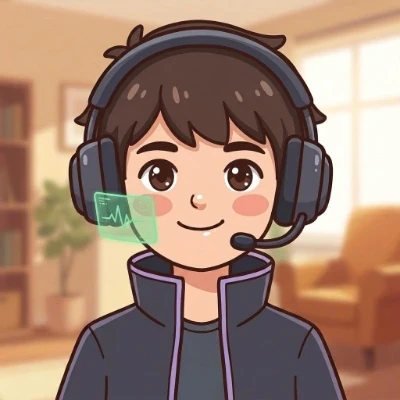
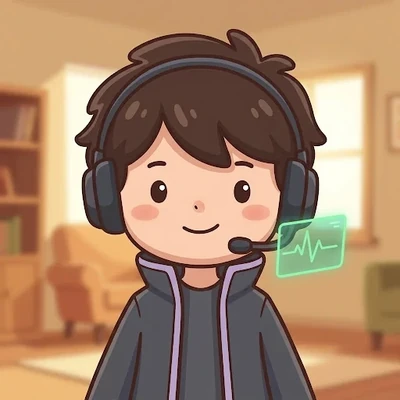
Personagens redesenhados no estilo C (traço original refinado)
Troca o redesenho mais realista pelo traço original do jogo, mais limpo:
agentes 0 e 1, promoções 0 a 5 e a menina da Escola com as cenas dela.
Os agentes da equipe continuam como estavam.

Claude-Session: https://claude.ai/code/session_01Bsh6pjGxG4aLmpNmfdfPHX

diff --git a/sw.js b/sw.js
@@ -2,7 +2,7 @@
    rode "node ferramentas/gerar-sw.js" depois de mudar o ?v= do index.html. */
 'use strict';
 
-const VERSAO = '202611260330';
+const VERSAO = '202611260430';
 const CACHE = 'algoritimando-' + VERSAO;
 const ARQUIVOS = [
   "./",
@@ -18,7 +18,7 @@ const ARQUIVOS = [
   "audio/efeitos/selo.mp3",
   "audio/efeitos/vitoria.mp3",
   "audio/musica-tema.mp3",
-  "fontes/fontes.css?v=202611260330",
+  "fontes/fontes.css?v=202611260430",
   "fontes/fredoka.woff2",
   "fontes/nunito.woff2",
   "img/agente-afro-menina.webp",
@@ -44,6 +44,7 @@ const ARQUIVOS = [
   "img/av9.webp",
   "img/cliente0.webp",
   "img/cliente1.webp",
+  "img/cliente2.webp",
   "img/cliente3.webp",
   "img/cliente4.webp",
   "img/cliente5.webp",
@@ -63,6 +64,7 @@ const ARQUIVOS = [
   "img/icones/icone-maskable-512.png",
   "img/level1.webp",
   "img/level2.webp",
+  "img/level3.webp",
   "img/level4.webp",
   "img/level5.webp",
   "img/level6.webp",
@@ -230,11 +232,18 @@ const ARQUIVOS = [
   "img/pecas/sanduiche-queijo.webp",
   "img/pic1.webp",
   "img/pic2.webp",
+  "img/pic3.webp",
   "img/pic4.webp",
   "img/pic5.webp",
   "img/pic6.webp",
   "img/pic7.webp",
   "img/pic8.webp",
+  "img/promo0.webp",
+  "img/promo1.webp",
+  "img/promo2.webp",
+  "img/promo3.webp",
+  "img/promo4.webp",
+  "img/promo5.webp",
   "img/promo6.webp",
   "img/promo7.webp",
   "img/promo8.webp",
@@ -261,35 +270,38 @@ const ARQUIVOS = [
   "img/ui/dica.webp",
   "img/ui/estrela.webp",
   "img/who1.webp",
+  "img/who2.webp",
+  "img/who3.webp",
   "img/who4.webp",
   "img/who5.webp",
   "img/who6.webp",
   "img/win1.webp",
   "img/win2.webp",
+  "img/win3.webp",
   "img/win4.webp",
   "img/win5.webp",
   "img/win6.webp",
   "img/win7.webp",
   "img/win8.webp",
   "index.html",
-  "js/album.js?v=202611260330",
-  "js/app.js?v=202611260330",
-  "js/arrasto.js?v=202611260330",
-  "js/comum.js?v=202611260330",
-  "js/conclusao.js?v=202611260330",
-  "js/em-progresso.js?v=202611260330",
-  "js/final.js?v=202611260330",
-  "js/jogo.js?v=202611260330",
-  "js/montagem.js?v=202611260330",
-  "js/motor.js?v=202611260330",
-  "js/perfil.js?v=202611260330",
-  "js/progresso.js?v=202611260330",
-  "js/pwa.js?v=202611260330",
-  "js/situacoes.js?v=202611260330",
-  "js/som.js?v=202611260330",
-  "js/versao.js?v=202611260330",
+  "js/album.js?v=202611260430",
+  "js/app.js?v=202611260430",
+  "js/arrasto.js?v=202611260430",
+  "js/comum.js?v=202611260430",
+  "js/conclusao.js?v=202611260430",
+  "js/em-progresso.js?v=202611260430",
+  "js/final.js?v=202611260430",
+  "js/jogo.js?v=202611260430",
+  "js/montagem.js?v=202611260430",
+  "js/motor.js?v=202611260430",
+  "js/perfil.js?v=202611260430",
+  "js/progresso.js?v=202611260430",
+  "js/pwa.js?v=202611260430",
+  "js/situacoes.js?v=202611260430",
+  "js/som.js?v=202611260430",
+  "js/versao.js?v=202611260430",
   "manifest.webmanifest",
-  "style.css?v=202611260330"
+  "style.css?v=202611260430"
 ];
 
 // instala: baixa tudo de novo (sem usar o cache do navegador)

diff --git a/index.html b/index.html
@@ -18,8 +18,8 @@
     <meta name="apple-mobile-web-app-status-bar-style" content="black-translucent" />
     <meta name="apple-mobile-web-app-title" content="Algoritimando" />
     <!-- fontes guardadas no projeto: o jogo funciona sem internet -->
-    <link rel="stylesheet" href="fontes/fontes.css?v=202611260330" />
-    <link rel="stylesheet" href="style.css?v=202611260330" />
+    <link rel="stylesheet" href="fontes/fontes.css?v=202611260430" />
+    <link rel="stylesheet" href="style.css?v=202611260430" />
   </head>
   <body>
     <div id="stage">
@@ -916,23 +916,23 @@
          das cartas numa região, explicações de erro em outra -->
     <div class="sr leitor-avisos" aria-live="polite"></div>
     <div class="sr leitor-explicacao" aria-live="polite"></div>
-    <script src="js/versao.js?v=202611260330"></script>
-    <script src="js/motor.js?v=202611260330"></script>
-    <script src="js/comum.js?v=202611260330"></script>
-    <script src="js/situacoes.js?v=202611260330"></script>
-    <script src="js/em-progresso.js?v=202611260330"></script>
-    <script src="js/som.js?v=202611260330"></script>
-    <script src="js/progresso.js?v=202611260330"></script>
-    <script src="js/perfil.js?v=202611260330"></script>
-    <script src="js/arrasto.js?v=202611260330"></script>
-    <script src="js/conclusao.js?v=202611260330"></script>
-    <script src="js/montagem.js?v=202611260330"></script>
-    <script src="js/jogo.js?v=202611260330"></script>
+    <script src="js/versao.js?v=202611260430"></script>
+    <script src="js/motor.js?v=202611260430"></script>
+    <script src="js/comum.js?v=202611260430"></script>
+    <script src="js/situacoes.js?v=202611260430"></script>
+    <script src="js/em-progresso.js?v=202611260430"></script>
+    <script src="js/som.js?v=202611260430"></script>
+    <script src="js/progresso.js?v=202611260430"></script>
+    <script src="js/perfil.js?v=202611260430"></script>
+    <script src="js/arrasto.js?v=202611260430"></script>
+    <script src="js/conclusao.js?v=202611260430"></script>
+    <script src="js/montagem.js?v=202611260430"></script>
+    <script src="js/jogo.js?v=202611260430"></script>
     <!-- a cópia do certificado que vai para a impressora (final.js) -->
     <div id="impressao" aria-hidden="true"></div>
-    <script src="js/album.js?v=202611260330"></script>
-    <script src="js/final.js?v=202611260330"></script>
-    <script src="js/app.js?v=202611260330"></script>
-    <script src="js/pwa.js?v=202611260330"></script>
+    <script src="js/album.js?v=202611260430"></script>
+    <script src="js/final.js?v=202611260430"></script>
+    <script src="js/app.js?v=202611260430"></script>
+    <script src="js/pwa.js?v=202611260430"></script>
   </body>
 </html>

diff --git a/js/final.js b/js/final.js
@@ -36,7 +36,7 @@
   const proximo = $('#bFimNext');
 
   // ?v= faz o navegador buscar a imagem nova quando ela muda
-  const V = '?v=202611260330';
+  const V = '?v=202611260430';
 
   /* Os quadros. "reserva": imagem do jogo usada enquanto a do
      quadro não existe. "festa": confete e música de vitória. */

diff --git a/js/versao.js b/js/versao.js
@@ -1,2 +1,2 @@
 /* js/versao.js — gerado por ferramentas/gerar-sw.js. Não edite à mão. */
-window.ALGORITIMANDO_VERSAO = { numero: '1.57', data: '26/11/2026' };
+window.ALGORITIMANDO_VERSAO = { numero: '1.58', data: '26/11/2026' };

diff --git a/antigos/LEIA-ME.md b/antigos/LEIA-ME.md
@@ -7,10 +7,11 @@ Não entram aqui as partes desativadas **por enquanto** (Área do professor/edit
 | Arquivo | O que era | Substituído por | Desde |
 |---|---|---|---|
 | `img/guide.webp`, `img/guide-feliz.webp`, `img/guide-triste.webp` | rosto do Robô-guia no diálogo (o "feliz" era um ovo bege) | versões feitas a partir de `robo-normal`, `robo-feliz` e `robo-preocupado` | 26/11/2026 |
-| `img/av0.webp`, `img/agente-menina.webp` | agente 0 (menina) no desenho antigo, com cinto e estrela | redesign no estilo dos agentes novos | 26/11/2026 |
-| `img/av1.webp`, `img/agente-menino.webp` | agente 1 (menino) no desenho antigo, com acabamento azul | redesign no estilo dos agentes novos | 26/11/2026 |
+| `img/av0.webp`, `img/agente-menina.webp` | agente 0 (menina) no desenho antigo, com cinto e estrela | redesenho no estilo C (traço original refinado) | 26/11/2026 |
+| `img/av1.webp`, `img/agente-menino.webp` | agente 1 (menino) no desenho antigo, com acabamento azul | redesenho no estilo C (traço original refinado) | 26/11/2026 |
 | `img/agente-costas.webp` | agente de costas, corpo inteiro | não é usado em nenhuma tela (o botão secreto usa `av-equipe.webp`) | 04/11/2026 |
-| `img/promo0.webp` a `img/promo5.webp` | cenas de promoção dos agentes 0 a 5 com o robô ovo e o casaco antigo | mesma cena da `promo6`, com o Robô-guia branco e o uniforme novo | 26/11/2026 |
-| `img/cliente2.webp`, `img/who3.webp` | menina da Escola (mochila) no traço de anime | redesign no estilo dos clientes novos | 26/11/2026 |
-| `img/pic3.webp`, `img/level3.webp`, `img/win3.webp` | cenas da Escola com a menina antiga | mesmas cenas com a menina redesenhada | 26/11/2026 |
+| `img/promo0.webp` a `img/promo5.webp` | cenas de promoção dos agentes 0 a 5 com o robô ovo e o casaco antigo | nova cena no estilo C, com o Robô-guia branco e o uniforme sem cinto | 26/11/2026 |
+| `img/cliente2.webp`, `img/who3.webp` | menina da Escola (mochila) no traço de anime | redesenho no estilo C (traço original refinado) | 26/11/2026 |
+| `img/pic3.webp`, `img/level3.webp`, `img/win3.webp` | cenas da Escola com a menina antiga | mesmas cenas com a menina no estilo C | 26/11/2026 |
 | `img/who2.webp` | alfinete da Fábrica com um operário de capacete | retrato do robô laranja (`cliente1`), que é o cliente desse chamado | 26/11/2026 |
+| `img/pecas/limonada-base.webp`, `img/pecas/dentes-base.webp` | bancadas antigas da limonada e dos dentes (muito detalhe atrás dos objetos) | `img/pecas/limonada-bancada.webp` e `dentes-bancada.webp` | 26/11/2026 |
